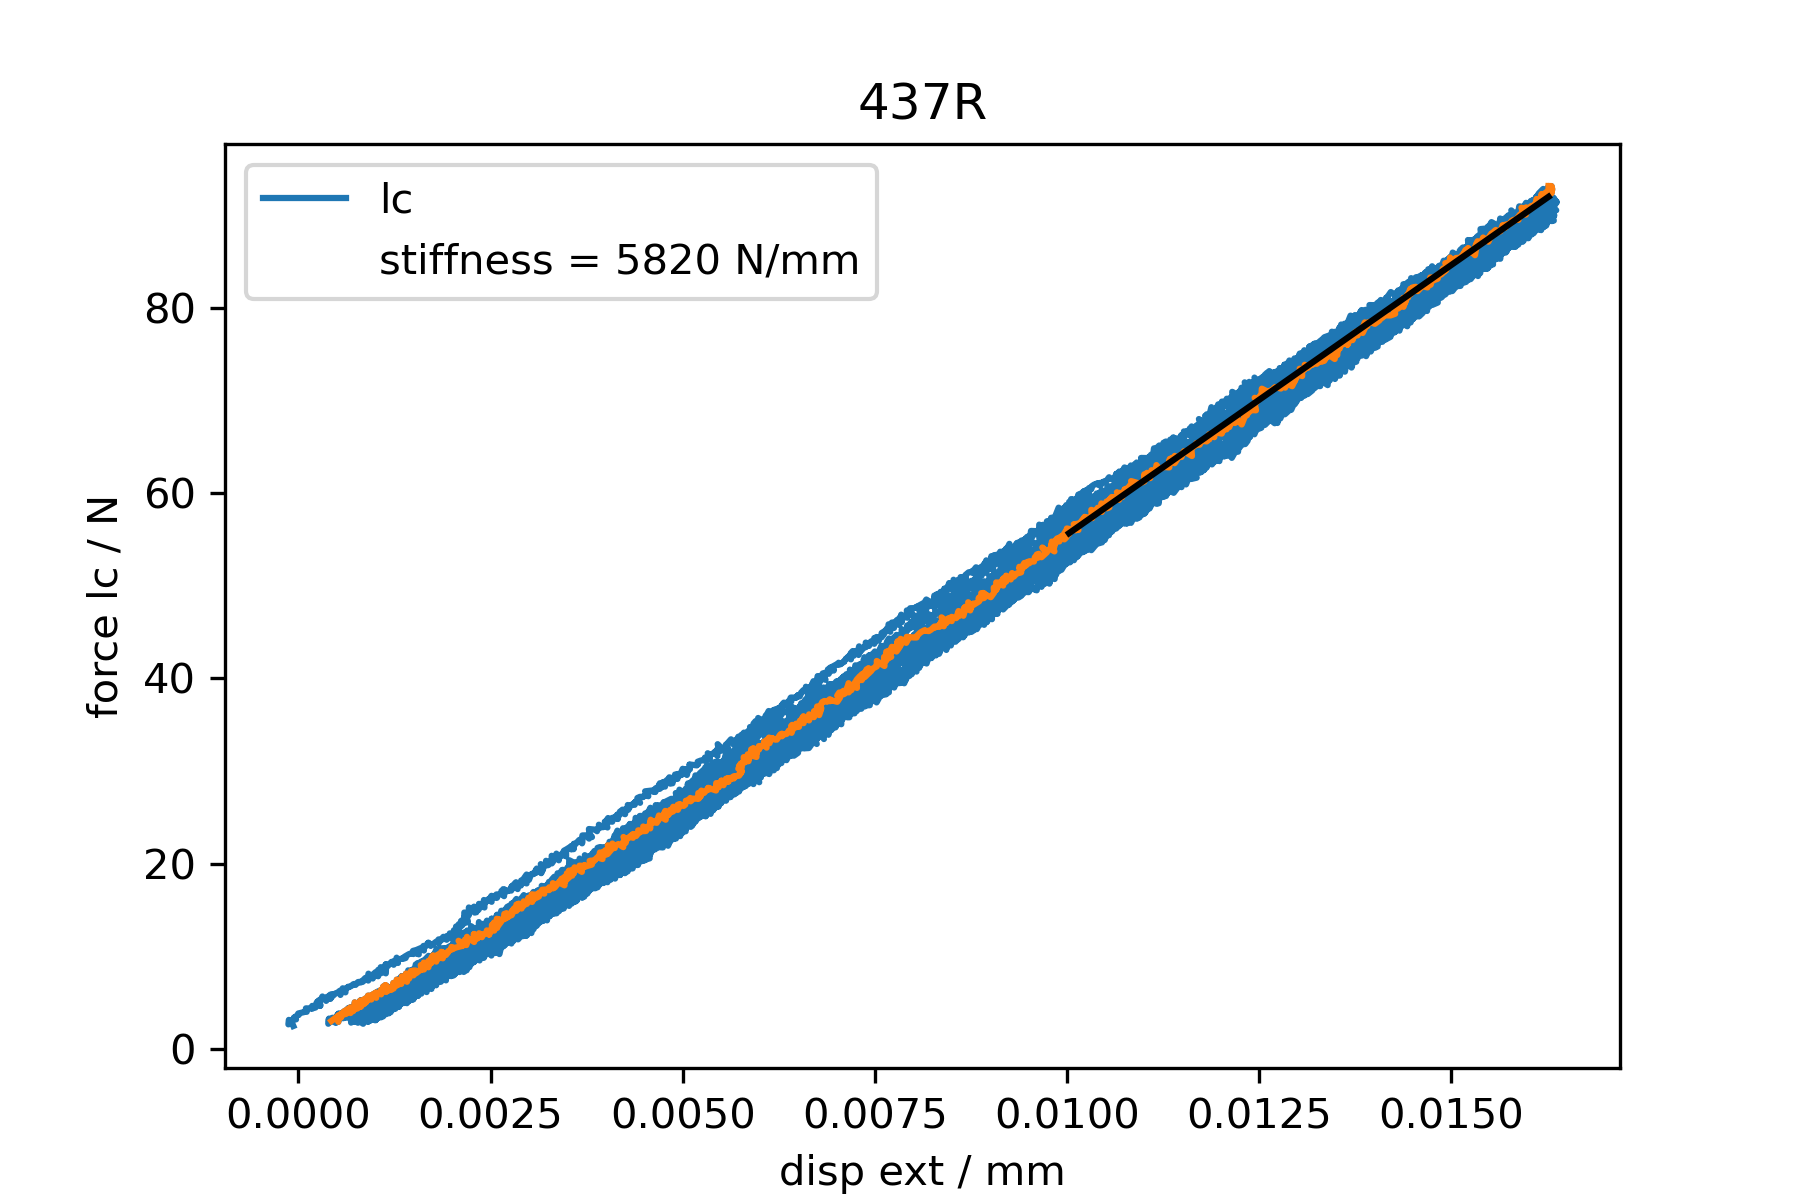
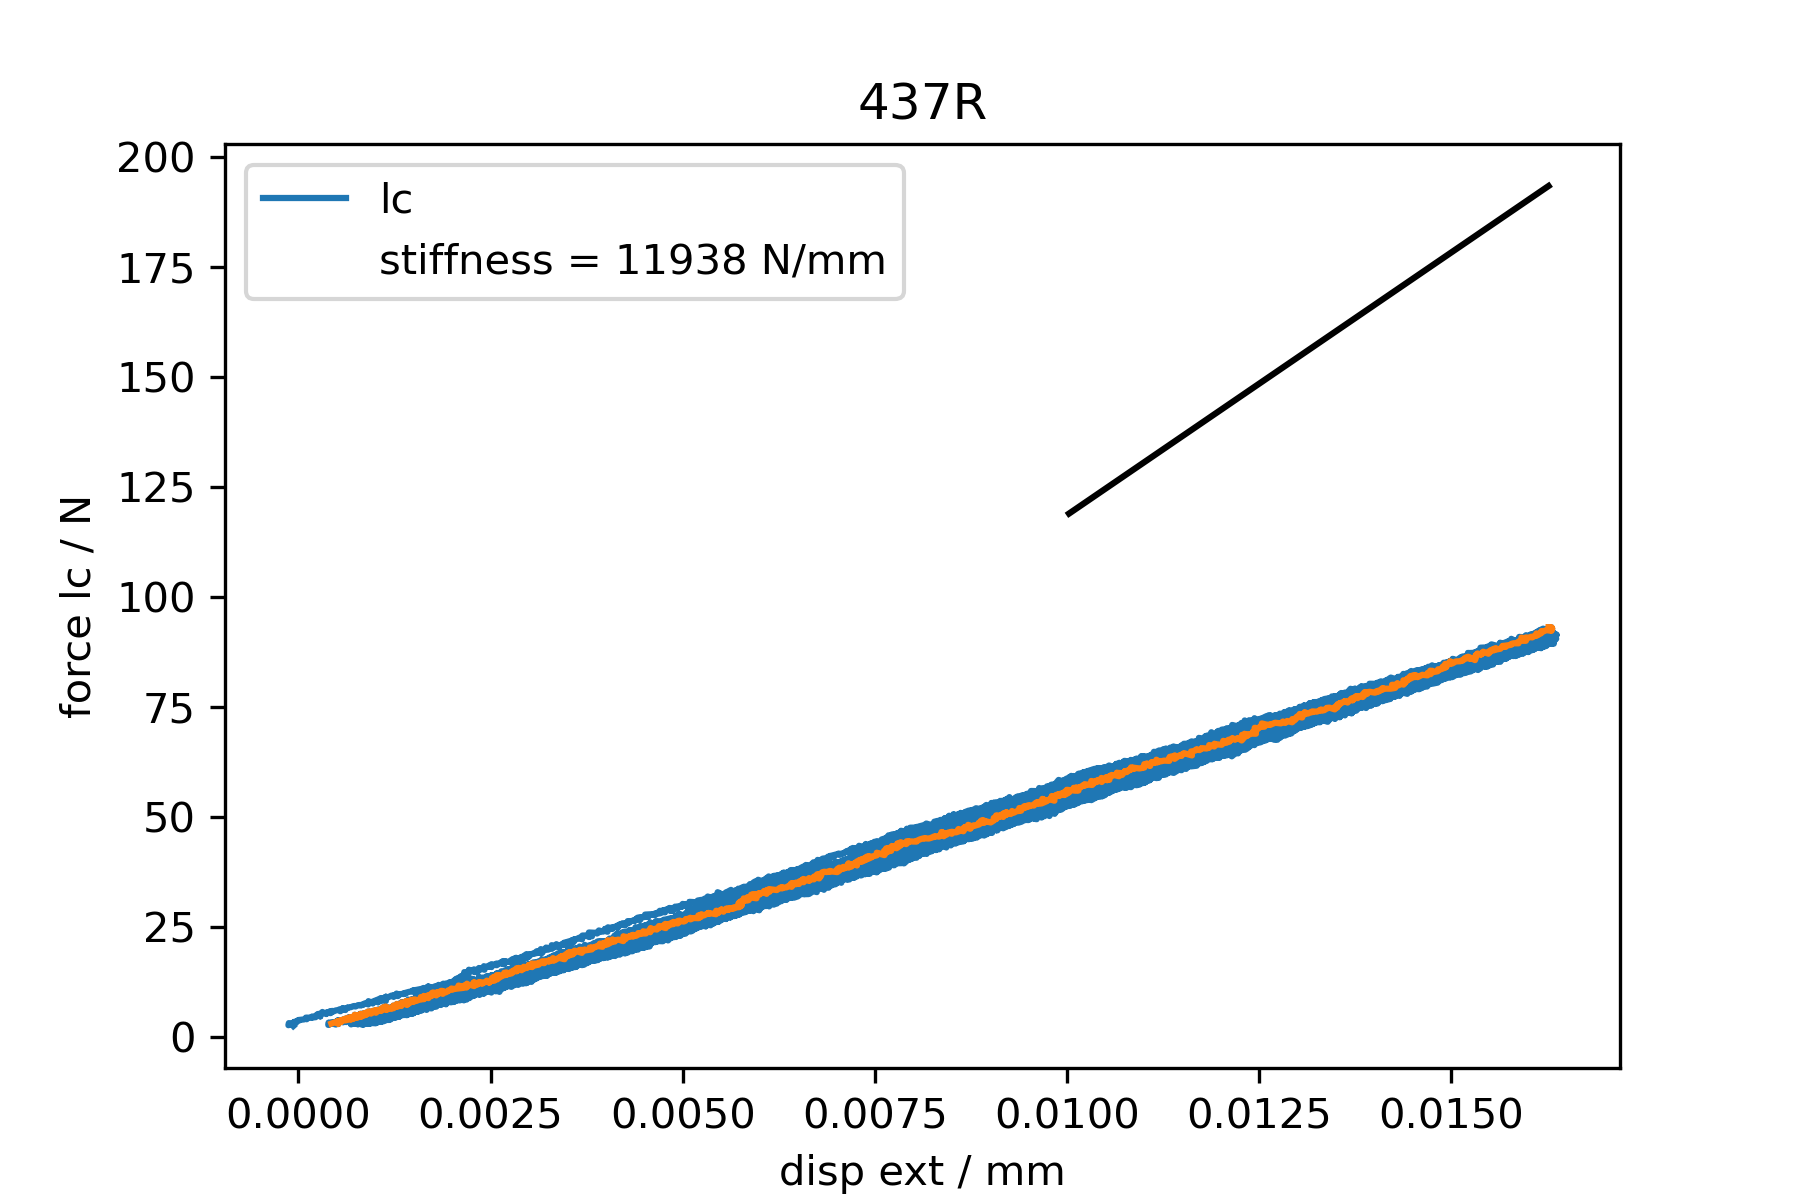
add rolling regression for stiffness calculation

diff --git a/03_Scripts/read_MTS.py b/03_Scripts/read_MTS.py
@@ -50,30 +50,46 @@ for filename in filename_list:
     # plt.show()
     plt.close()
 
-    # peak detection:
+    # peak detection
     peaks_index, _ = find_peaks(df['force_lc'], width=50)
 
-    # linear regression:
-    Indices = np.arange(peaks_index[-1], df.index[-1])
-    Data_reg = df.iloc[Indices[0:int(len(Indices) / 3)]]
+    window_width = round(1 / 3 * (df.index[-1] - peaks_index[-1]))
 
-    slope, intercept, r_value, p_value, std_err = stats.linregress(Data_reg['disp_ext'], Data_reg['force_lc'])
-    x_last_cycle = np.array([Data_reg.iloc[0]['disp_ext'], Data_reg.iloc[-1]['disp_ext']])
+    # calculate values for last cycle of force/disp curve only
+    last_cycle_force = df['force_lc_filtered'][peaks_index[-1]:]
+    last_cycle_disp = df['disp_ext'][peaks_index[-1]:]
+    last_cycle_disp = last_cycle_disp.dropna().reset_index(drop=True)
+    last_cycle_force = last_cycle_force.dropna().reset_index(drop=True)
 
-    # generate plot
-    plt.figure(figsize=(6, 4))
-    plt.title(sample_ID)
-    plt.plot(df['disp_ext'], df['force_lc'], label='lc')
-    plt.plot(df['disp_ext'][peaks_index[-1]:], df['force_lc'][peaks_index[-1]:])
-    plt.plot(x_last_cycle, slope * x_last_cycle + intercept, 'k')
-    plt.plot([], ' ', label=f'stiffness = {slope:.0f} N/mm')
-    plt.ylabel('force lc / N')
-    plt.xlabel('disp ext / mm')
-    plt.legend()
-    savepath = Cwd / '04_Results/00_Mineralized/00_force_disp/'
-    plt.savefig(os.path.join(savepath, 'force_disp_' + sample_ID + '.png'), dpi=300)
+    # isolate stress/strain values
+    last_cycle = pd.DataFrame()
+    last_cycle['last_cycle_force'] = round(last_cycle_force, 5)
+    last_cycle['last_cycle_disp'] = round(last_cycle_disp, 5)
+
+    # rolling linear regression
+    slope_values_stiff = list()
+    for x in range(0, len(last_cycle) - 1 - window_width + 1, 1):
+        last_cycle_mod = last_cycle[x:x + window_width]
+        slope_stiff, intercept, r_value, p_value, std_err = stats.linregress(last_cycle_mod['last_cycle_disp'],
+                                                                       last_cycle_mod['last_cycle_force'])
+        slope_value = slope_stiff
+        slope_values_stiff.append(slope_value)
+    stiffness = max(slope_values_stiff)
+
+    ## generate plot
+    # plt.figure(figsize=(6, 4))
+    # plt.title(sample_ID)
+    # plt.plot(df['disp_ext'], df['force_lc'], label='lc')
+    # plt.plot(df['disp_ext'][peaks_index[-1]:], df['force_lc'][peaks_index[-1]:])
+    # plt.plot(x_last_cycle, slope_stiff * x_last_cycle + intercept, 'k')
+    # plt.plot([], ' ', label=f'stiffness = {slope:.0f} N/mm')
+    # plt.ylabel('force lc / N')
+    # plt.xlabel('disp ext / mm')
+    # plt.legend()
+    # savepath = Cwd / '04_Results/00_Mineralized/00_force_disp/'
+    # plt.savefig(os.path.join(savepath, 'force_disp_' + sample_ID + '.png'), dpi=300)
     # plt.show()
-    plt.close()
+    # plt.close()
 
     # calculate stress/strain
     Pi = 3.1415
@@ -133,20 +149,20 @@ for filename in filename_list:
     last_cycle = last_cycle[max_strain_ind:min_strain_ind]
 
     window_width = 358      # calculated by: index(lower_strain)-index(upper_strain)
-    slope_values = list()
+    slope_values_app = list()
 
     # rolling linear regression
     for x in range(max_strain_ind, min_strain_ind - window_width + 1, 1):
         last_cycle_mod = last_cycle[x:x+window_width]
-        slope, intercept, r_value, p_value, std_err = stats.linregress(last_cycle_mod['last_cycle_strain'],
+        slope_app, intercept, r_value, p_value, std_err = stats.linregress(last_cycle_mod['last_cycle_strain'],
                                                                        last_cycle_mod['last_cycle_stress'])
-        slope_value = slope
-        slope_values.append(slope_value)
-    apparent_modulus = max(slope_values)
+        slope_value = slope_app
+        slope_values_app.append(slope_value)
+    apparent_modulus = max(slope_values_app)
 
     # create list with current values which are sample_ID, slope & apparent modulus & add them to result list which
     # is then converted to dataframe
-    values = [sample_ID, round(slope), round(apparent_modulus)]
+    values = [sample_ID, round(stiffness), round(apparent_modulus)]
     result.append(values)
     result_dir = pd.DataFrame(result, columns=['Sample ID', 'Stiffness N/mm', 'Apparent modulus MPa'])
 
